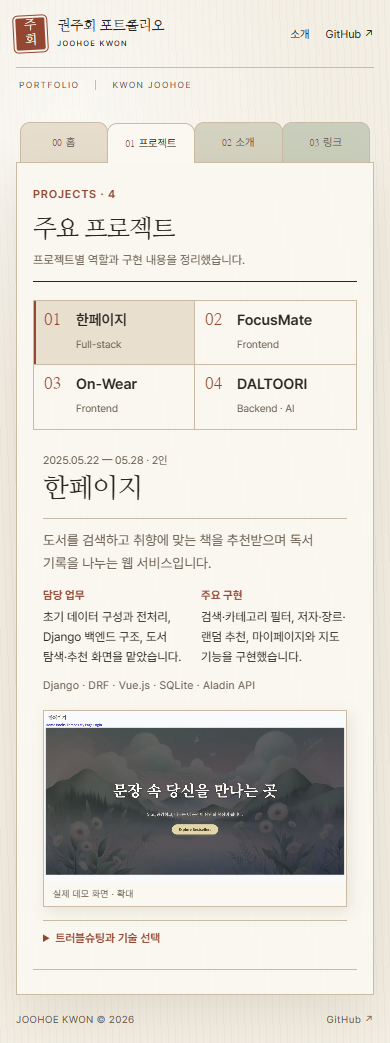
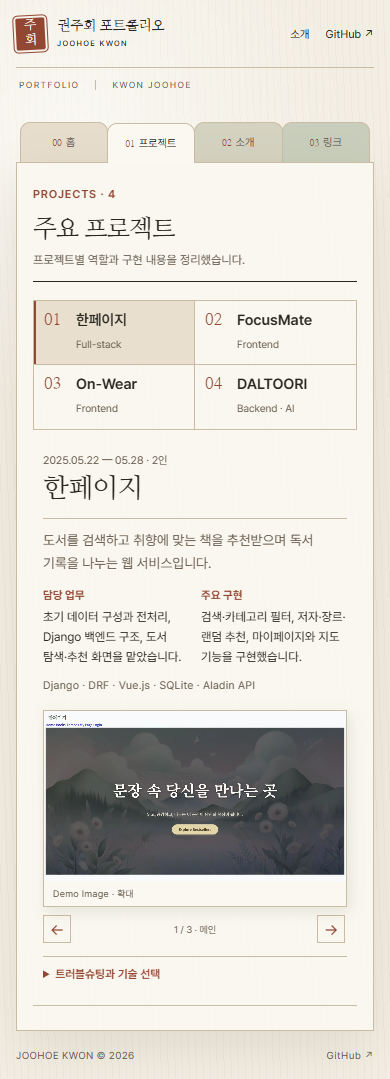
docs(t01): 데모 캐러셀 검증 기록

diff --git a/design.md b/design.md
@@ -36,8 +36,8 @@
 - 최상위 `홈·프로젝트·소개·링크`는 ARIA 탭으로 구성하며 한 번에 한 패널만 보여 준다. URL 해시로 각 패널을 바로 열 수 있다.
 - 소개 패널은 좌측 자기소개와 우측 두 폴라로이드를 유지한다. 1366×768 및 1920×1080에서는 전체 포트폴리오가 한 화면 안에서 기록철처럼 보인다.
 - 프로젝트 패널은 날짜 순서인 `한페이지·FocusMate·On-Wear·달투리`로 고정하고, 선택한 프로젝트의 기간·역할·서비스·담당 업무·주요 구현·기술을 같은 형식으로 교체한다.
-- 각 프로젝트에는 로컬에서 실행한 기존 프론트엔드 데모의 대표 화면을 한 장씩 수록한다. 썸네일을 누르면 원본 비율의 큰 화면을 dialog에서 확인할 수 있다.
-- FocusMate·On-Wear·DALTOORI에는 각 저장소의 실제 로고를 표시하고 DALTOORI에는 수달 마스코트도 함께 사용한다. DALTOORI는 앱 화면 두 장을 같은 너비의 가로 미리보기 영역에 나란히 배치한다.
+- 각 프로젝트에는 로컬에서 실행한 기존 프론트엔드 데모의 주요 화면을 캐러셀로 수록한다. 이전·다음 버튼, 현재 순서와 화면명을 제공하고 이미지를 누르면 원본 비율의 dialog에서 확인할 수 있다.
+- FocusMate·On-Wear·DALTOORI에는 각 저장소의 실제 로고를 본문에서 식별 가능한 크기로 표시하고 DALTOORI에는 수달 마스코트도 함께 사용한다.
 - 기술 선택과 트러블슈팅은 본문과 분리한 접이식 기록으로 둔다. README·소스·커밋에서 근거가 확인된 내용만 쓰고 사례가 없는 항목을 채우기 위해 만들지 않는다.
 - 프로젝트 명칭은 사용자가 확인한 이름을 따른다. `BookVerse` 표기를 `한페이지`로 고치고, 외부 독자가 알기 어려운 SSAFY 단계명은 쓰지 않는다.
 - 한페이지는 유효한 공개 경로가 확인되기 전까지 링크를 표시하지 않는다. 나머지는 커밋 필터 주소 대신 실제 코드 저장소의 기본 경로로 연결한다.
@@ -63,6 +63,7 @@
 - On-Wear: 조직 README의 FE 역할과 `On-Wear-FE` develop 브랜치의 rnjswnghl 커밋을 사용한다.
 - 달투리: e101 README의 BE·AI 역할과 master 브랜치의 rnjswnghl 커밋을 사용한다.
 - FocusMate: `rnjswnghl--gongtong_frontend`의 프론트엔드 README·커밋을 사용하고 해당 코드 저장소로 직접 연결한다.
+- FocusMate는 사용자가 확인한 5인 프로젝트로 표시한다.
 - 한페이지: `09-pjt` README와 master 브랜치 커밋을 사용한다. 저장소의 예전 프로젝트명 대신 사용자가 확인한 공개 명칭 `한페이지`를 쓴다.
 - 팀 전체 기능과 개인 기여를 구분하고, 확인되지 않은 수치·성과·담당 범위는 추가하지 않는다.
 

diff --git a/docs/T01-log.md b/docs/T01-log.md
@@ -92,3 +92,9 @@
 - FocusMate·On-Wear·DALTOORI 저장소에서 로고를 가져오고 투명 여백을 정리해 WebP로 최적화했다.
 - DALTOORI 수달 마스코트와 학습 카테고리 실행 화면을 추가했다.
 - DALTOORI의 두 모바일 화면을 동일한 가로 미리보기 영역에 배치하고 각각 확대할 수 있게 했다.
+
+## 2026-09-15 · 주요 화면 캐러셀 전환
+- 네 프로젝트의 실제 빌드 라우트를 로컬 SPA fallback 서버에서 열어 주요 화면 15장을 캡처했다.
+- 한페이지 3장, FocusMate 4장, On-Wear 5장, DALTOORI 3장을 WebP로 최적화했다.
+- 프로젝트마다 한 화면만 보이고 이전·다음 버튼으로 순환하는 캐러셀을 구현했다. 번호와 화면명을 `aria-live`로 갱신한다.
+- FocusMate 인원을 5인으로 수정하고 프로젝트 로고 크기를 확대했다.
